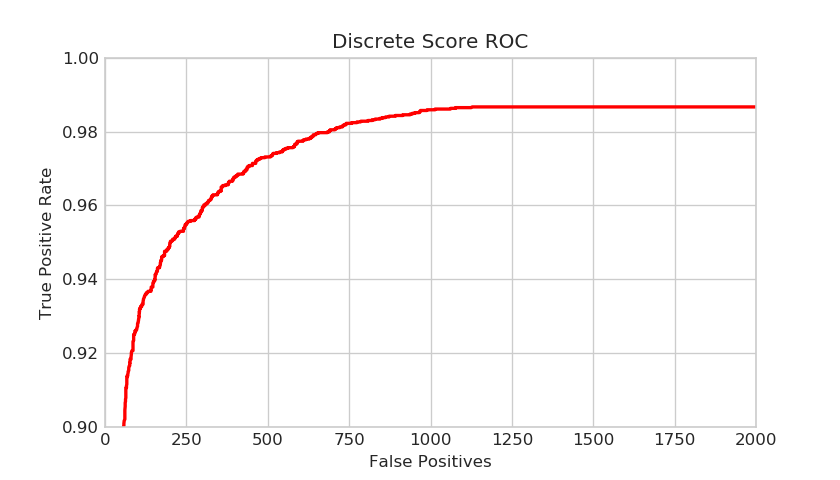
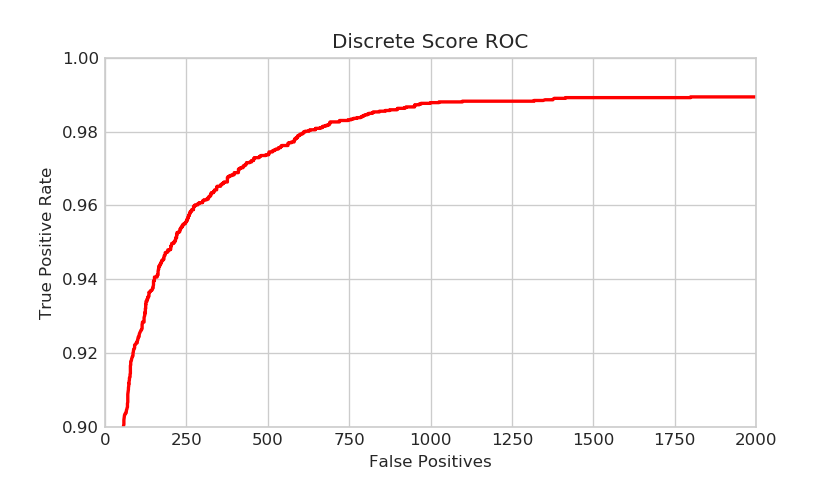
update readme

diff --git a/model_eval/fddb.py b/model_eval/fddb.py
@@ -102,7 +102,7 @@ for n in tqdm(images_to_use):
     # threshold is important to set low
 
 
-    boxes = face_detector(image_array, score_threshold=0.01)
+    boxes = face_detector(image_array, score_threshold=0.05)
 
     ##flip det
     flip_img=np.flip(image_array,1)

diff --git a/README.md b/README.md
@@ -5,7 +5,7 @@
 A tensorflow implement dsfd, and there is something different with the origin paper.
 
 It‘s a ssd-like object detect framework, but slightly different,
-combines lots of tricks for face detection, such as dual-shot, dense anchor match, FPN and so on.
+combines lots of tricks for face detection, such as dual-shot, dense anchor match, FPN,FEM and so on.
 
 now it is mainly optimised about face detection,
 and borrows some codes from other repos
@@ -13,17 +13,19 @@ and borrows some codes from other repos
 ps, the code maybe not that clear, please be patience, and i am still working on it, and forgive me for my poor english :)
 
 
+the evaluation results are based on vgg with batchsize(2x16),pretrained model can be download from
+https://pan.baidu.com/s/1cUqnf9BwUVkCy0iT6EczKA ( password ty4d )
 
 widerface  val set
 
 | Easy MAP | Medium MAP | hard MAP |
 | :------: | :------: | :------: |
-|  0.937 | 0.930 | 0.879 |
+|  0.942 | 0.935 | 0.880 |
 
 
 | fddb   |
 | :------: | 
-|  0.984 | 
+|  0.987 | 
 
 
 
